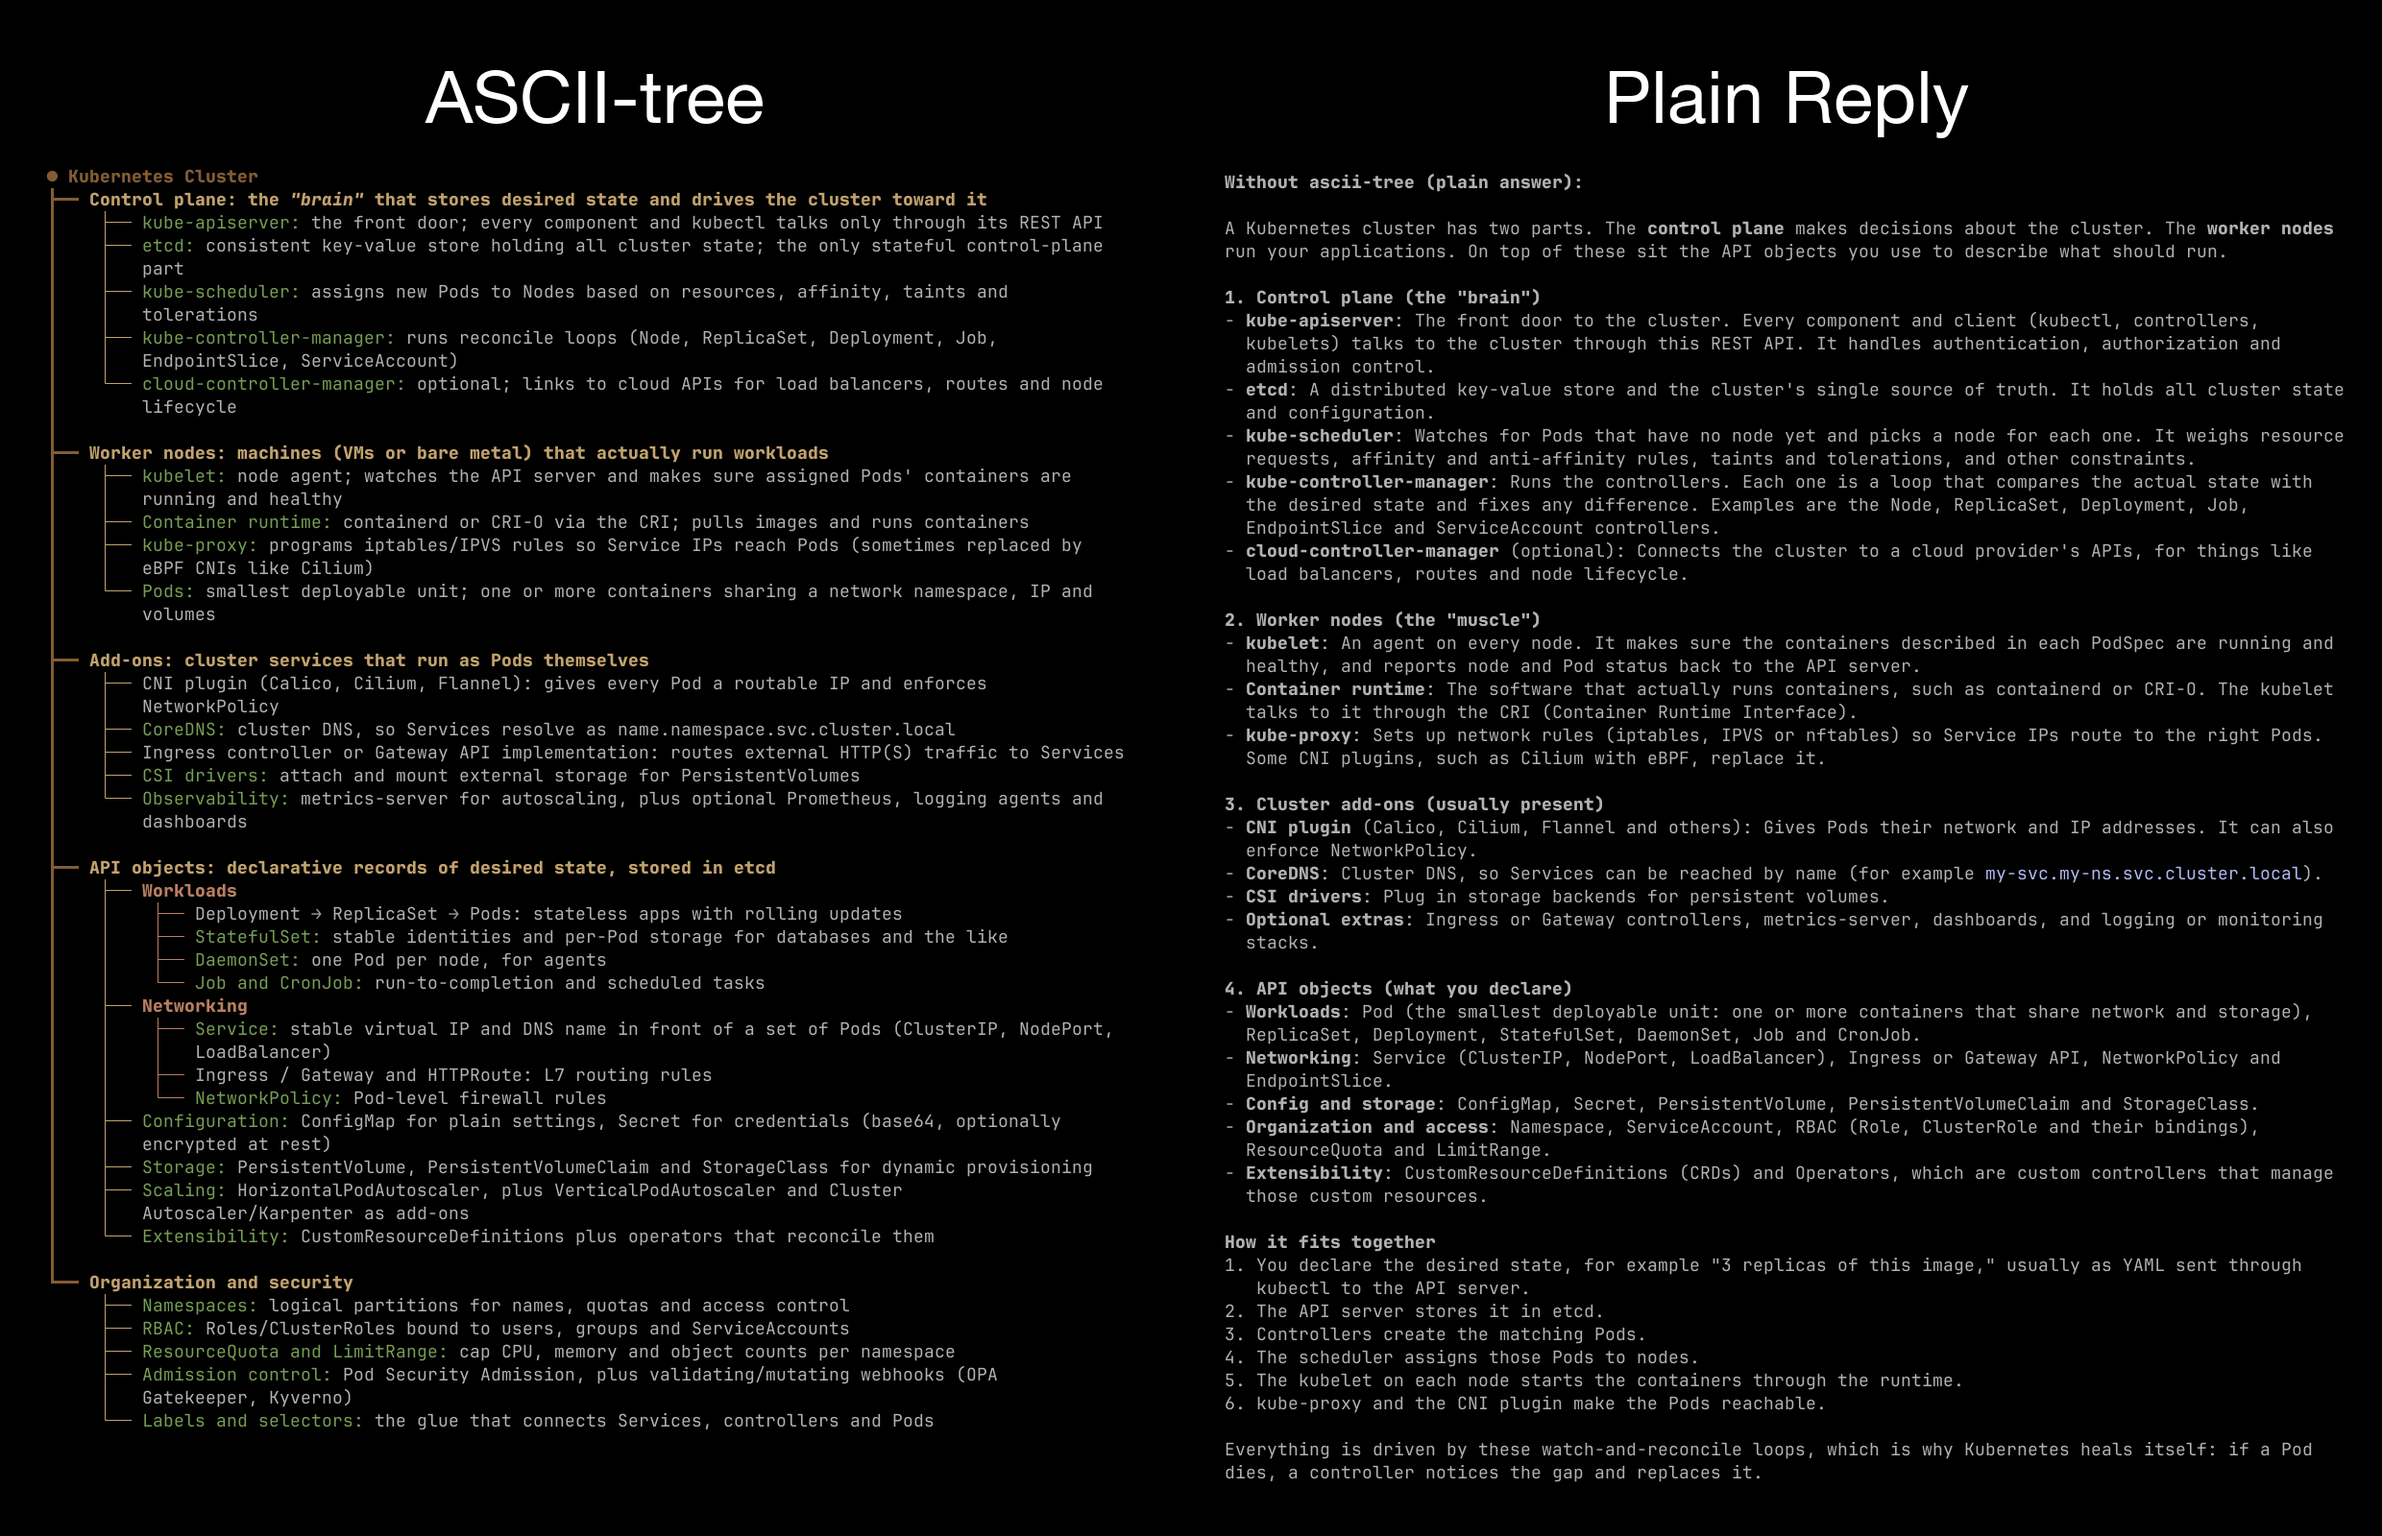
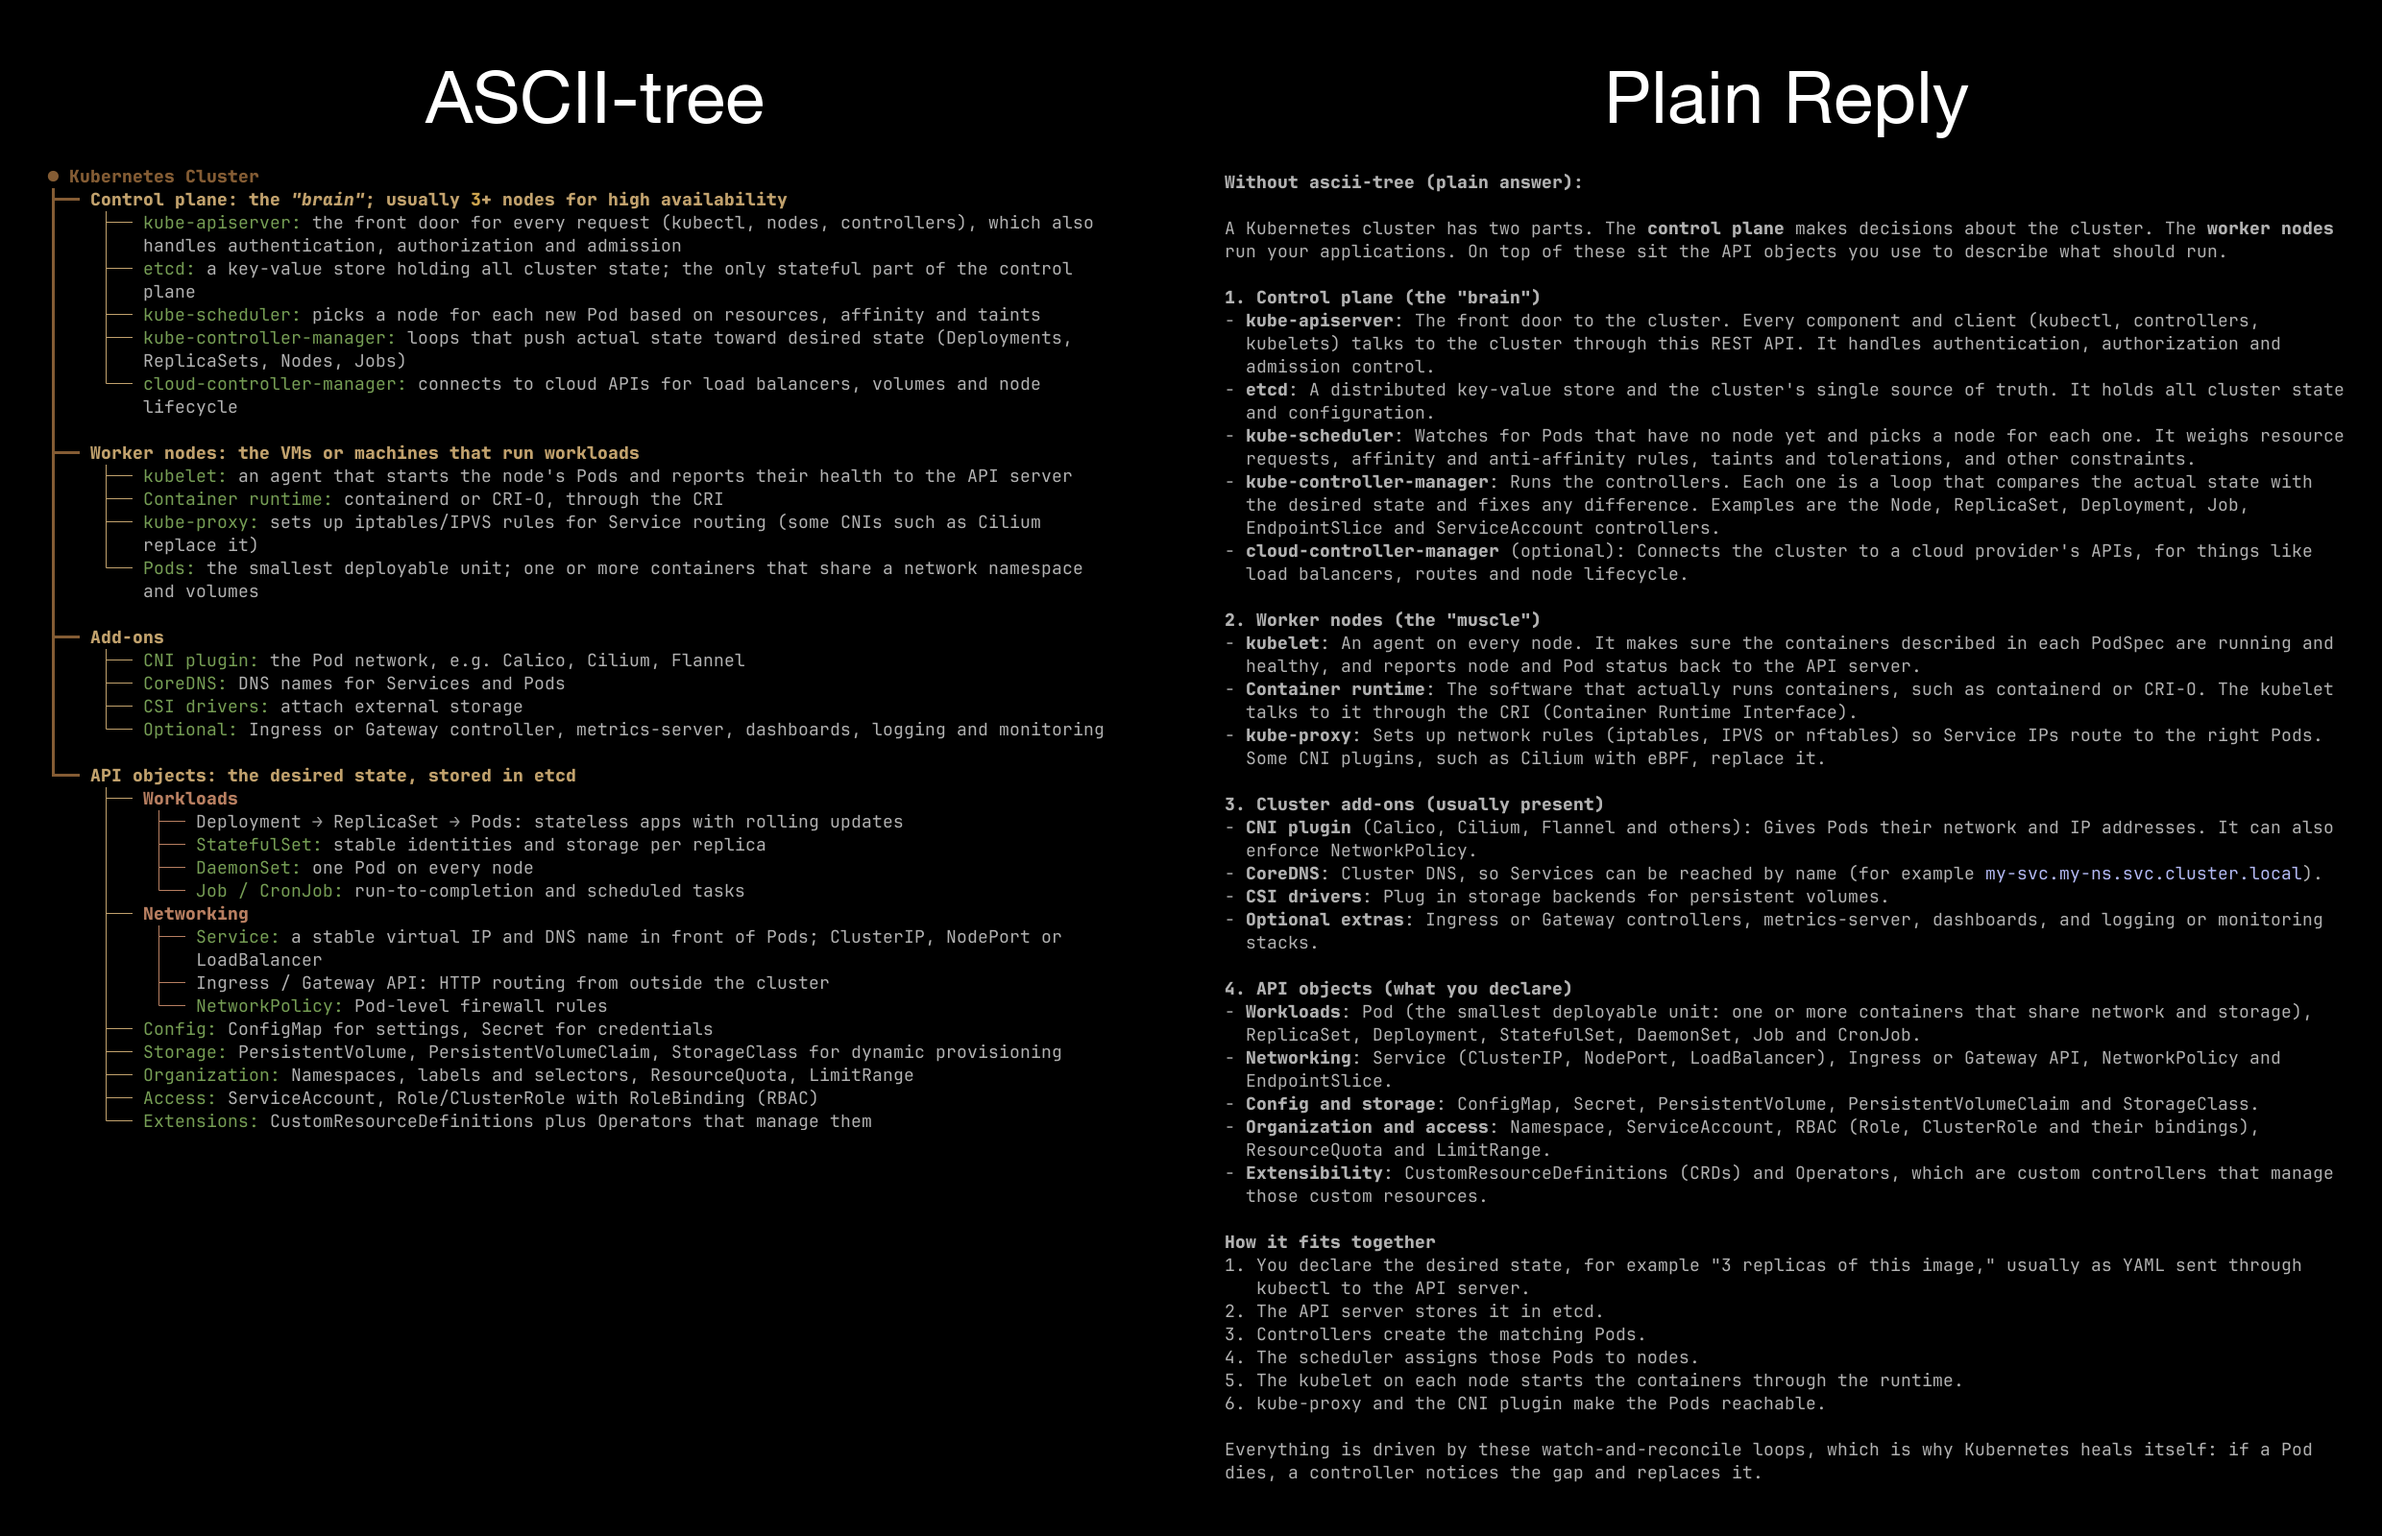
Ask for the shortest tree that keeps critical details
"Be concise, as short as possible, without omitting critical details"
cut the Kubernetes tree from 377 to 282 words with the same depth, so
the README's side-by-side image is redone with the new answer. Also drops
the "No emoji" rule.

Changed region(s): [[0.031, 0.125, 0.4657, 0.9375], [0.4036, 0.7188, 0.4347, 0.75]]

diff --git a/ascii-tree/commands/ascii-tree.md b/ascii-tree/commands/ascii-tree.md
@@ -6,7 +6,7 @@ description: Return as ergonomic ascii tree
 Respond ONLY with your answer as an ergonomic ASCII tree and no other text.
 
 Content:
-- Be concise without omitting critical details.
+- Be concise, as short as possible, without omitting critical details.
 - Structure responses hierarchically when a hierarchy exists: if items are kinds of something or parts of something, nest them under it, as many levels deep as the subject really goes.
 - Keep sequences of steps flat, and never add levels just for depth: a parent with only one child is usually one node (`Document: MongoDB through Mongoose`), not a heading over a leaf.
 

diff --git a/README.md b/README.md
@@ -8,7 +8,7 @@
 
 [![License: MIT](https://img.shields.io/badge/license-MIT-8B5A2B.svg)](LICENSE)
 [![Claude Code](https://img.shields.io/badge/Claude%20Code-mod-C8A165.svg)](https://claude.com/claude-code)
-[![Version](https://img.shields.io/badge/version-0.6.4-C27C5B.svg)](ascii-tree/.claude-plugin/plugin.json)
+[![Version](https://img.shields.io/badge/version-0.6.5-C27C5B.svg)](ascii-tree/.claude-plugin/plugin.json)
 
 <img src="docs/images/ascii-tree-styled.png" alt="Claude explaining /ascii-tree, drawn as a colored ASCII tree" width="760">
 
